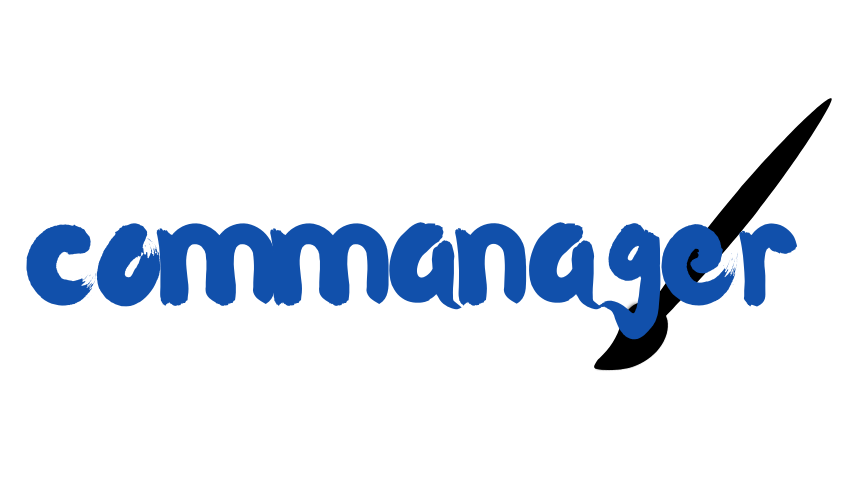
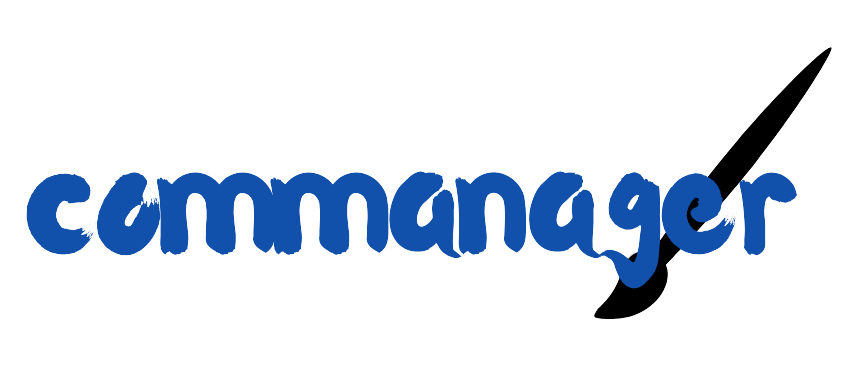
messages changes

diff --git a/commanager/server/templates/messages.html b/commanager/server/templates/messages.html
@@ -4,54 +4,71 @@
     <meta charset="UTF-8">
     <meta name="viewport" content="width=device-width, initial-scale=1.0">
     <title>Homepage</title>
+    
+    <!-- Stylesheets -->
     <link rel="stylesheet" href="{{ url_for('static', filename='styles/main.css') }}">
     <link rel="stylesheet" href="{{ url_for('static', filename='styles/messages.css') }}">
+
+    <!-- JavaScript -->
+    <script src="{{ url_for('static', filename='js/profile-menu.js') }}" defer></script>
+    <script src="{{ url_for('static', filename='js/chat.js') }}" defer></script>
 </head>
+
 <body>
-    <div id="header"></div>
     {% include "components/header.html" %}
-    <script src="{{ url_for('static', filename='js/profile-menu.js') }}"></script>
     
-    <div class="main-container">
-        <div class="sidebar">
+    <main class="main-container">
+        <aside class="sidebar">
             <h3>Chats</h3>
             <ul>
-                <li>Chat 1</li>
-                <li>Chat 2</li>
-                <li>Chat 3</li>
+                <li><button class="chat-select">Chat 1</button></li>
+                <li><button class="chat-select">Chat 2</button></li>
+                <li><button class="chat-select">Chat 3</button></li>
             </ul>
-        </div>
+        </aside>
         
-        <div class="chat-container">
-            <div class="messages" id="chat"></div>
-            <input type="text" id="userInput" placeholder="Type a message...">
-            <button onclick="sendMessage()">Send</button>
-        </div>
-    </div>
-    
+        <section class="chat-container">
+            <div class="messages" id="chat" role="log" aria-live="polite"></div>
+            <div class="input-group">
+                <input type="text" id="userInput" placeholder="Type a message..." aria-label="Type a message">
+                <button class="Button" id="sendBtn">Send</button>
+            </div>
+        </section>
+    </main>
+
     <script>
-        function sendMessage() {
-            const input = document.getElementById('userInput');
-            const message = input.value.trim();
-            if (message === '') return;
+        document.addEventListener('DOMContentLoaded', () => {
+    const input = document.getElementById('userInput');
+    const sendBtn = document.getElementById('sendBtn');
+    const chat = document.getElementById('chat');
 
-            const chat = document.getElementById('chat');
-            const userMessage = document.createElement('div');
-            userMessage.className = 'message userInput';
-            userMessage.innerText = message;
-            chat.appendChild(userMessage);
+    sendBtn.addEventListener('click', sendMessage);
+    input.addEventListener('keypress', function (e) {
+        if (e.key === 'Enter') sendMessage();
+    });
 
-            input.value = '';
+    function sendMessage() {
+        const message = input.value.trim();
+        if (!message) return;
+
+        const userMessage = document.createElement('div');
+        userMessage.className = 'message userInput';
+        userMessage.innerText = message;
+        chat.appendChild(userMessage);
+
+        input.value = '';
+        chat.scrollTop = chat.scrollHeight;
+
+        setTimeout(() => {
+            const botMessage = document.createElement('div');
+            botMessage.className = 'message bot';
+            botMessage.innerText = 'Hello! This is a bot response.';
+            chat.appendChild(botMessage);
             chat.scrollTop = chat.scrollHeight;
+        }, 1000);
+    }
+});
 
-            setTimeout(() => {
-                const botMessage = document.createElement('div');
-                botMessage.className = 'message bot';
-                botMessage.innerText = 'Hello! This is a bot response.';
-                chat.appendChild(botMessage);
-                chat.scrollTop = chat.scrollHeight;
-            }, 1000);
-        }
     </script>
 </body>
 </html>

diff --git a/commanager/server/static/styles/messages.css b/commanager/server/static/styles/messages.css
@@ -1,7 +1,7 @@
 .main-container{
     display: flex;
     flex-direction: row;
-    height: calc(100vh - 102px);
+    height: calc(100vh - 97px);
 }
 
 .chat-container {
@@ -10,7 +10,7 @@
 }
 
 .messages {
-    height: calc(100vh - 225px);
+    height: calc(100vh - 237px);
     overflow-y: auto;
     border-bottom: 1px solid #ddd;
     margin-bottom: 10px;
@@ -23,7 +23,7 @@
 }
 
 .userInput {
-    background: #dcf8c6;
+    background: #dbf0fe;
     text-align: right;
 }
 
@@ -46,4 +46,9 @@
 
 .sidebar ul{
     list-style-type:none;
+}
+
+.Button{
+    padding: 0;
+    margin: 10px auto;
 }

diff --git a/commanager/server/static/styles/main.css b/commanager/server/static/styles/main.css
@@ -86,7 +86,7 @@ a:hover {
 }
 
 .logo-image {
-  max-height: 90px; /* make it bigger */
+  max-height: 70px; /* make it bigger */
   width: auto;
   height: auto;
   object-fit: contain;
